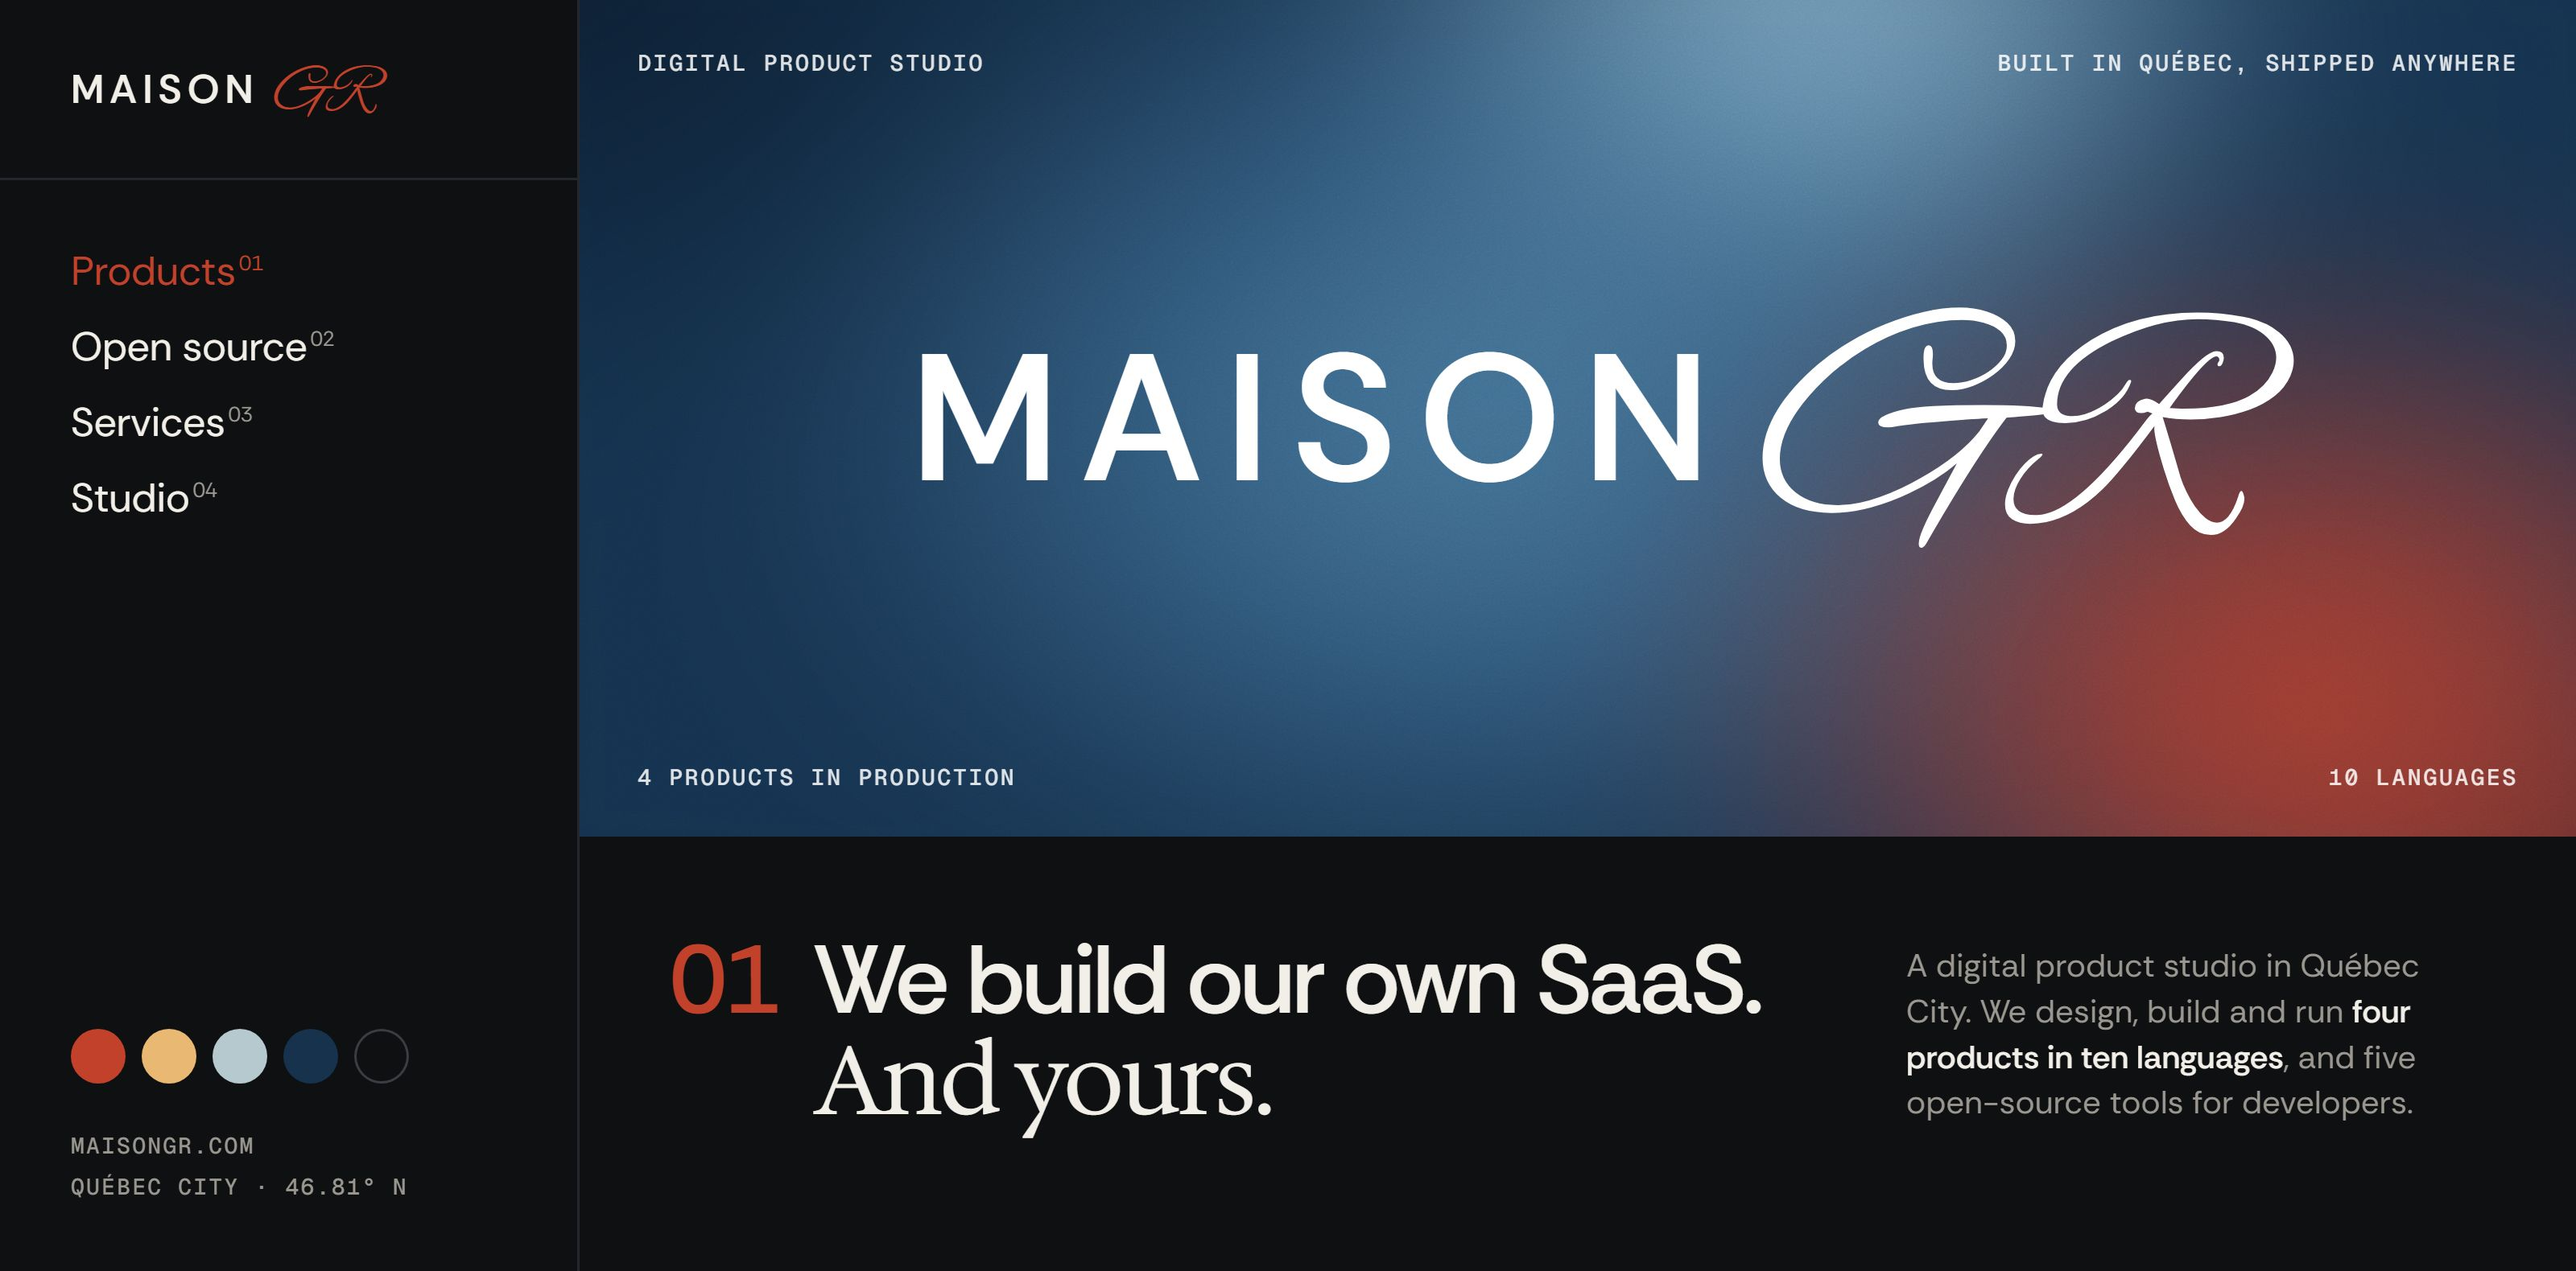
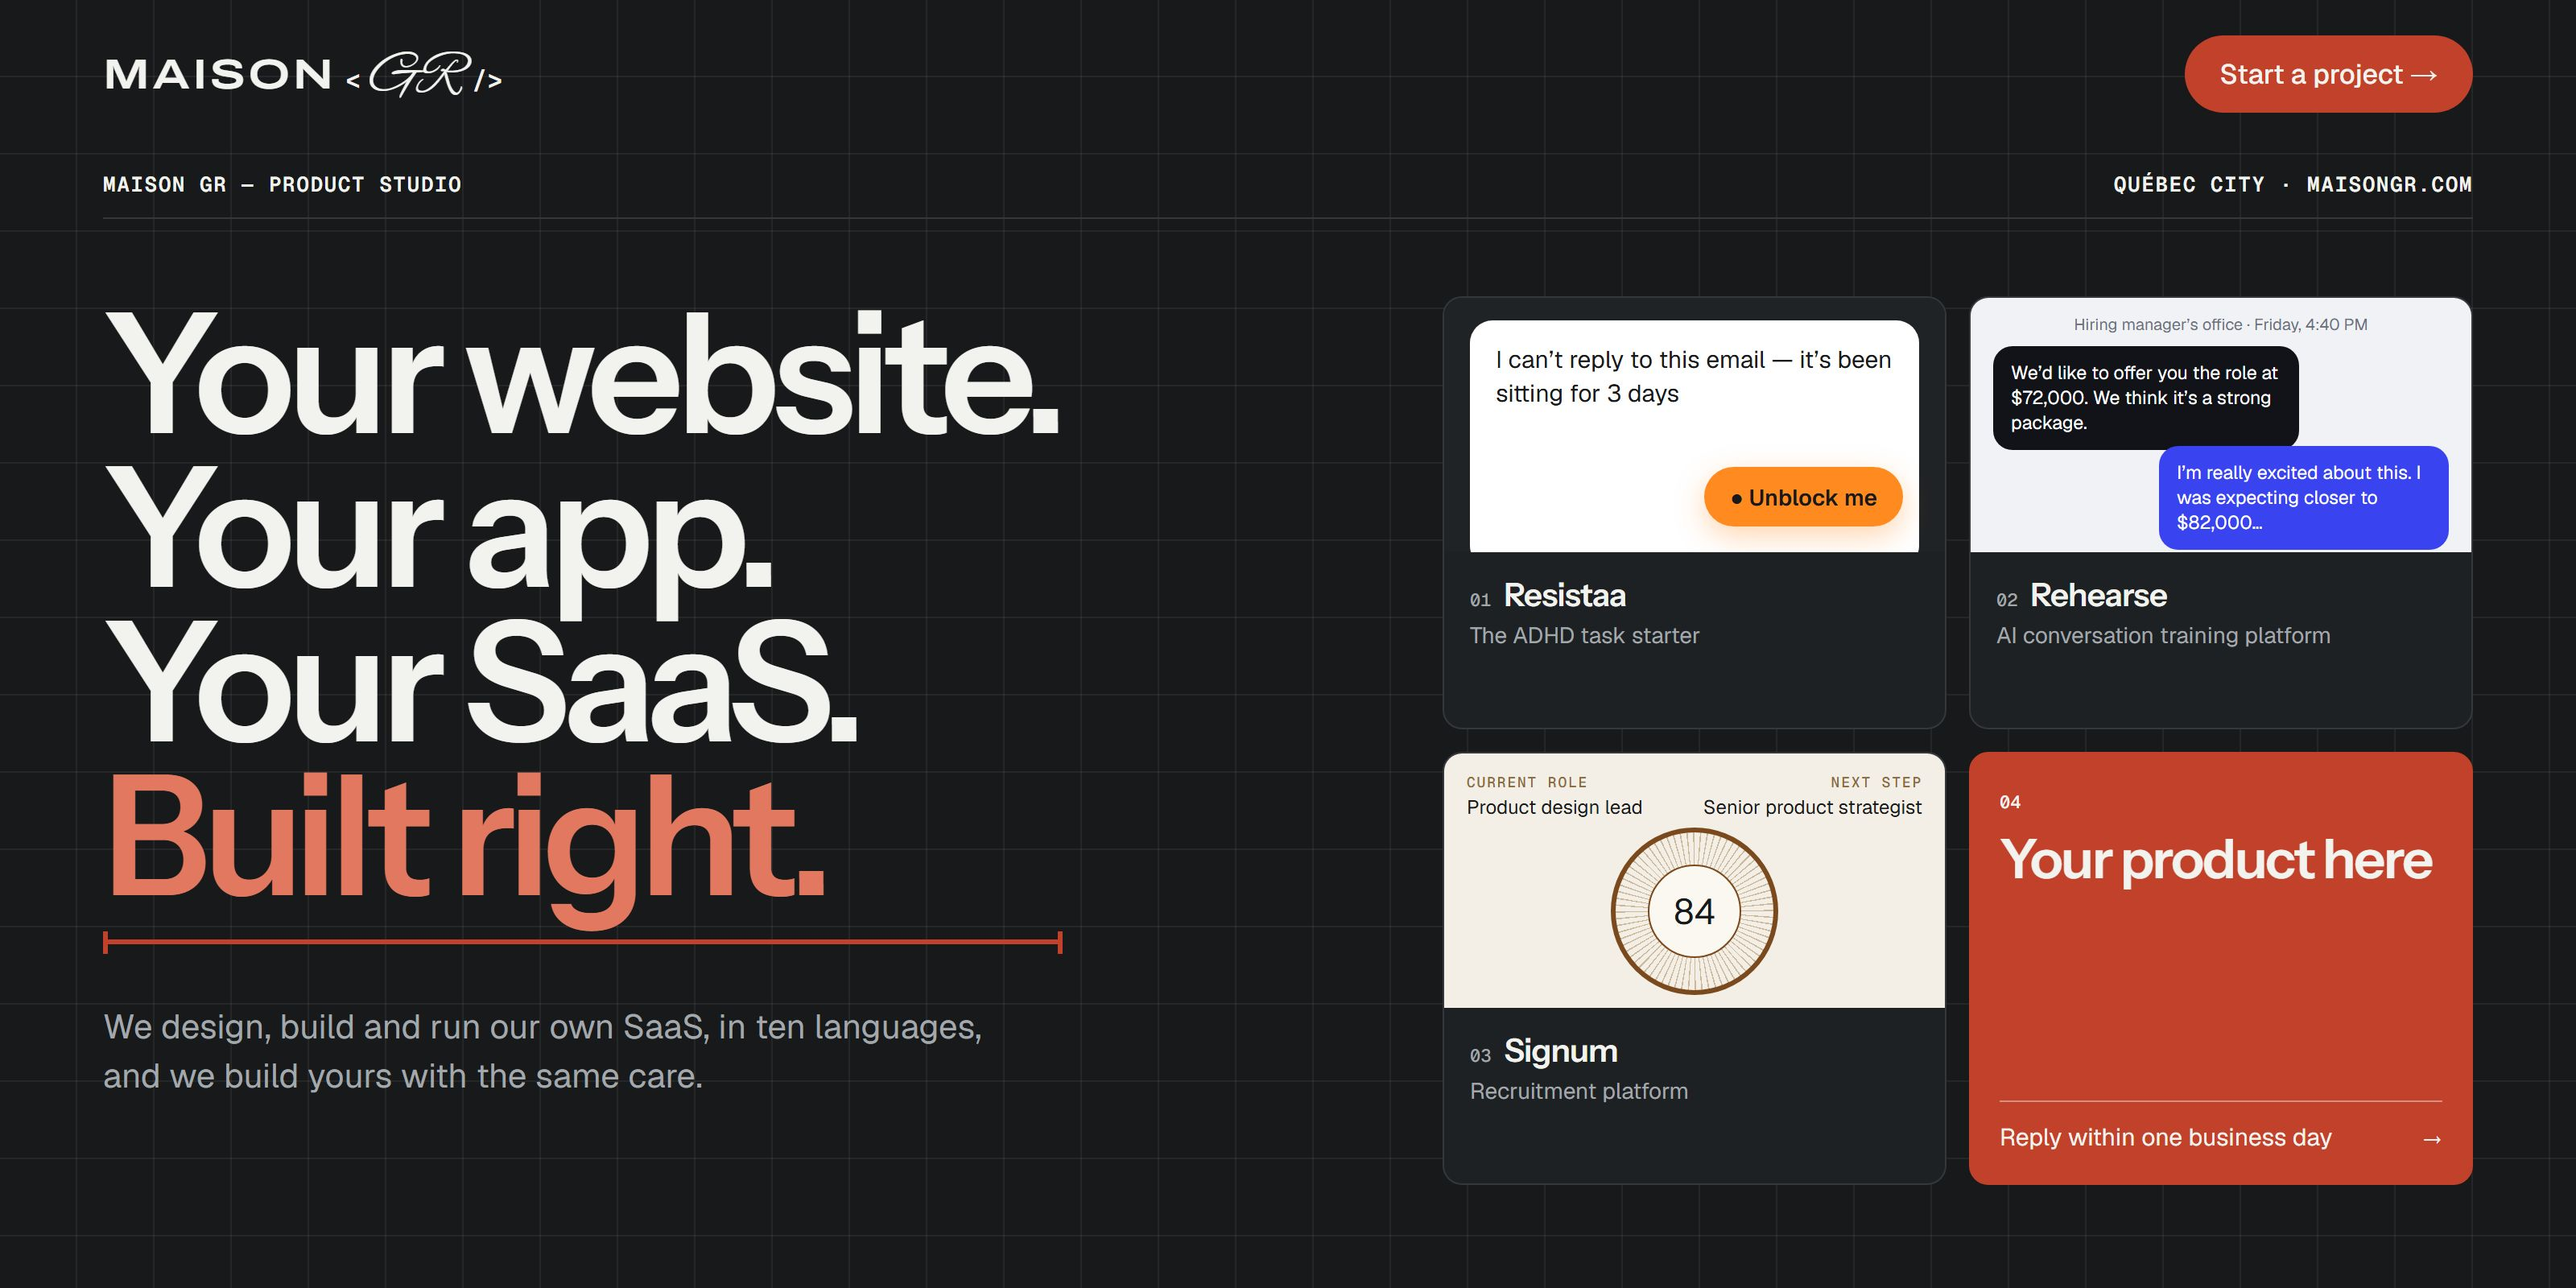
docs: profile header in maisongr.com's own design (#9)

diff --git a/profile/README.md b/profile/README.md
@@ -1,7 +1,7 @@
 <a href="https://www.maisongr.com">
   <picture>
     <source media="(prefers-color-scheme: dark)" srcset="https://raw.githubusercontent.com/maison-gr/.github/main/profile/assets/header-dark.jpg">
-    <img src="https://raw.githubusercontent.com/maison-gr/.github/main/profile/assets/header-light.jpg" width="100%" alt="Maison GR. We build our own SaaS. And yours. A digital product studio in Québec City: four products in production, in ten languages, and five open-source tools for developers.">
+    <img src="https://raw.githubusercontent.com/maison-gr/.github/main/profile/assets/header-light.jpg" width="100%" alt="Maison GR, product studio in Québec City. Your website. Your app. Your SaaS. Built right. Our products: Resistaa, the ADHD task starter; Rehearse, AI conversation training; Signum, recruitment. 04: your product here.">
   </picture>
 </a>
 
